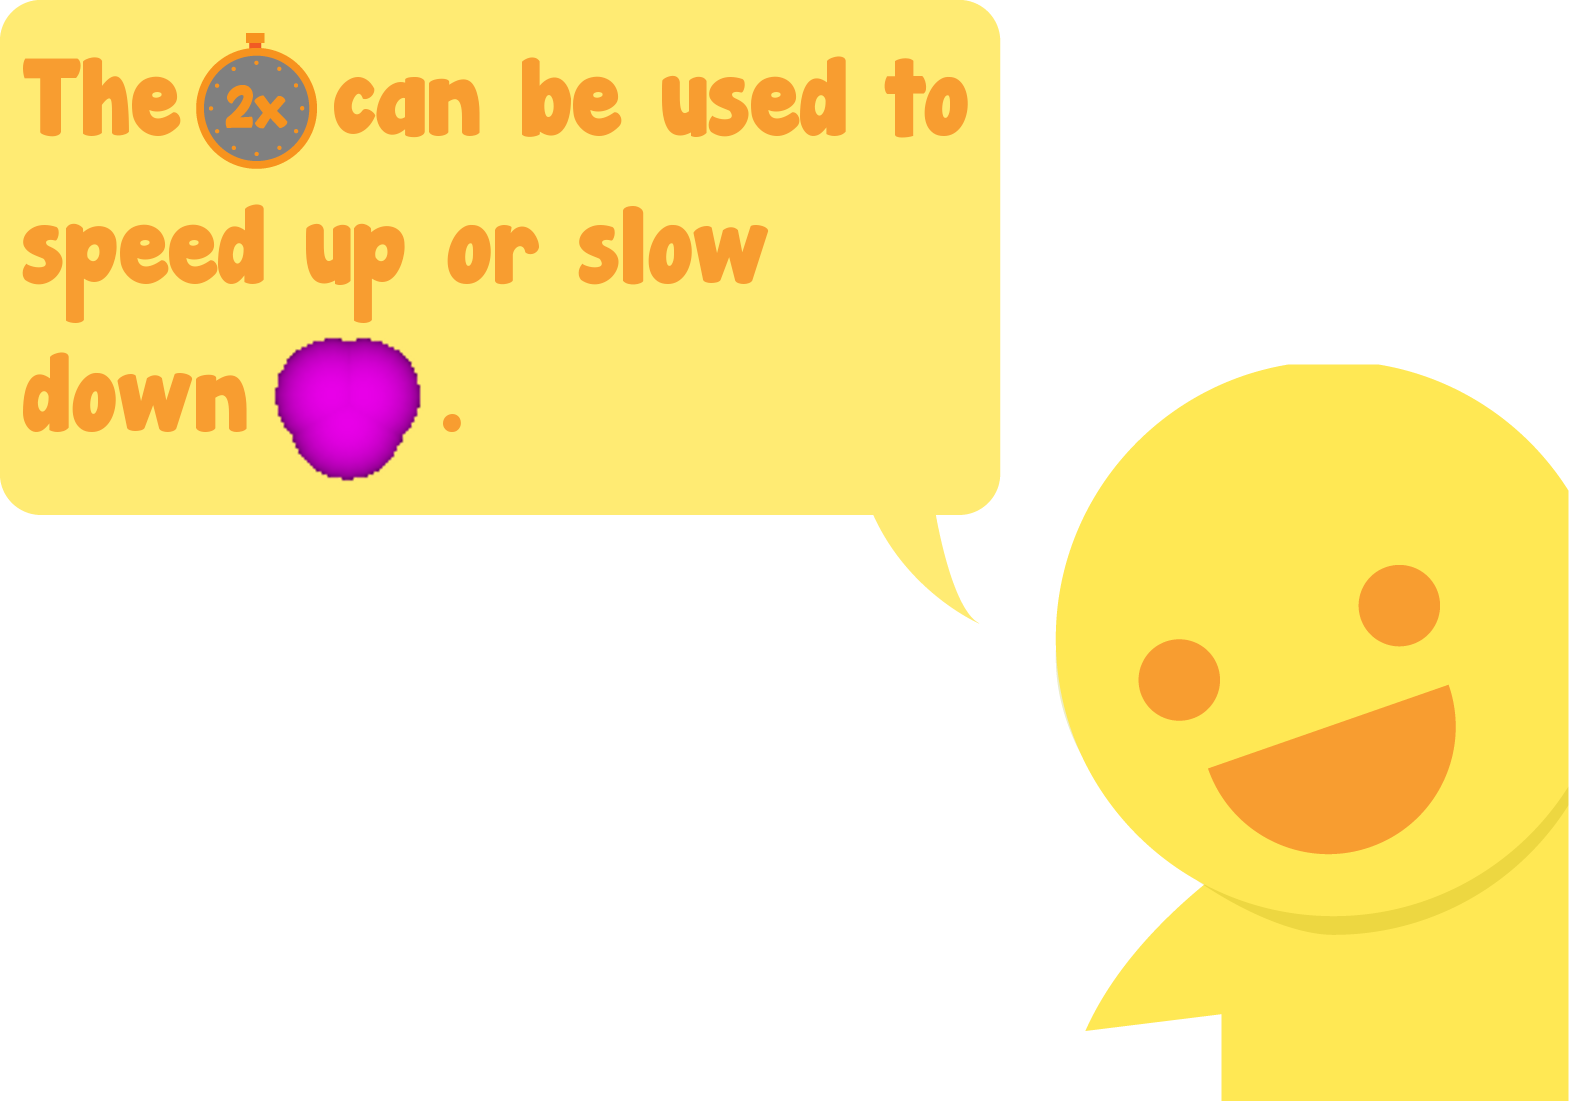
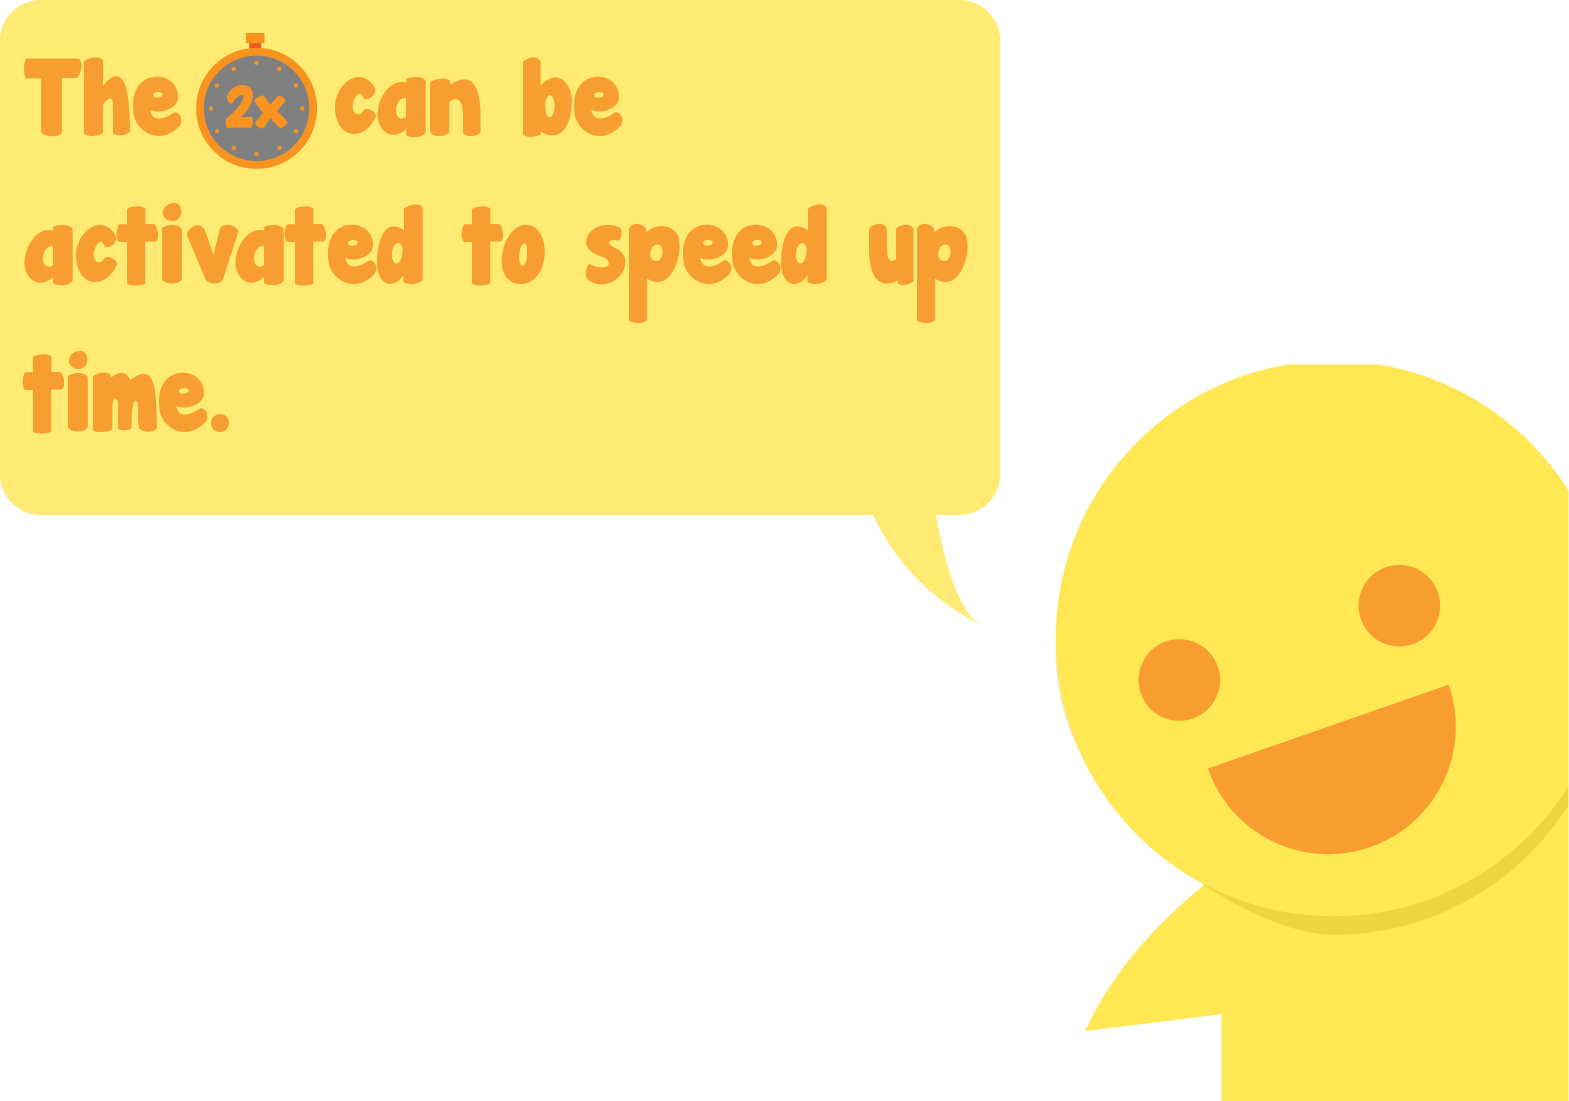
completed remainder of si tutorial changes on this week's list

Changed region(s): [[0.0, 0.1853, 0.6246, 0.4323], [0.406, 0.0309, 0.6246, 0.1235]]

diff --git a/Assets/Scripts/SmallIntestine/Tutorial/TowerUpgradeTutorial.cs b/Assets/Scripts/SmallIntestine/Tutorial/TowerUpgradeTutorial.cs
@@ -76,10 +76,9 @@ public class TowerUpgradeTutorial : MonoBehaviour
 			elapsedTime = 0f;
 		}
 
-		// destroy the light once the tower is upgraded and count to next upgrade
-		if (PlayerPrefs.GetInt("SIStats_towersUpgraded") == 1 && !speedUpgraded)
+		// set message to explain tower menu once it's activated
+		if (showZymeSpeed && intestineGameManager.getTowerMenuUp())
 		{
-			speedUpgraded = true;
 			if (mirrorImage)
 			{
 				zymeScript.setImage(zymePopupImageSpeedMirrored);
@@ -87,20 +86,22 @@ public class TowerUpgradeTutorial : MonoBehaviour
 			{
 				zymeScript.setImage(zymePopupImageSpeedNorm);
 			}
-			drawArrow = false;
 		}
 
-		// update elapsed time for 2nd upgrade
-		if (speedUpgraded && PlayerPrefs.GetInt("SIStats_towersUpgraded") == 1)
+		// destroy the light once the tower is upgraded and count to next upgrade
+		if (PlayerPrefs.GetInt("SIStats_towersUpgraded") == 1 && !speedUpgraded)
 		{
-			Time.timeScale = 1;
+			speedUpgraded = true;
+			drawArrow = false;
+			showZymeSpeed = false;
+			zymeScript.setDraw(false);
+			zymeScript.setDrawZymeRight();
+		}
+
+		// count time until next event
+		if (elapsedTime < maxUpgradeTimePower && speedUpgraded)
+		{
 			elapsedTime += Time.deltaTime;
-			if (elapsedTime > 3f)
-			{
-				showZymeSpeed = false;
-				zymeScript.setDraw(false);
-				zymeScript.setDrawZymeRight();
-			}
 		}
 
 		// if the time has passed spawn an indicator spotlight on the tower to upgrade
@@ -113,8 +114,8 @@ public class TowerUpgradeTutorial : MonoBehaviour
 			elapsedTime = 0f;
 		}
 
-		// destroy the light once the tower is upgraded and count to next upgrade
-		if (PlayerPrefs.GetInt("SIStats_towersUpgraded") == 2)
+		// set message to explain tower menu once it's activated
+		if (showZymePower && intestineGameManager.getTowerMenuUp())
 		{
 			if (mirrorImage)
 			{
@@ -123,15 +124,15 @@ public class TowerUpgradeTutorial : MonoBehaviour
 			{
 				zymeScript.setImage(zymePopupImagePowerNorm);
 			}
+		}
+
+		// destroy the light once the tower is upgraded and count to next upgrade
+		if (PlayerPrefs.GetInt("SIStats_towersUpgraded") == 2)
+		{
 			drawArrow = false;
-			Time.timeScale = 1;
-			elapsedTime += Time.deltaTime;
-			if (elapsedTime > 3f)
-			{
-				powerUpgraded = true;
-				showZymePower = false;
-				zymeScript.setDraw(false);
-			}
+			powerUpgraded = true;
+			showZymePower = false;
+			zymeScript.setDraw(false);
 		}
 	}
 

diff --git a/Assets/Scripts/SmallIntestine/GlowManager.cs b/Assets/Scripts/SmallIntestine/GlowManager.cs
@@ -87,7 +87,7 @@ public class GlowManager : MonoBehaviour
 		}
 			    
 			    // if tower menu or sell box is up don't light
-		if (intestineGameManager.getSellBoxUp() == true || intestineGameManager.getTowerMenuUp() == true)
+		if (intestineGameManager.getSellBoxUp() || intestineGameManager.getTowerMenuUp())
 		{
 			return;
 		}
